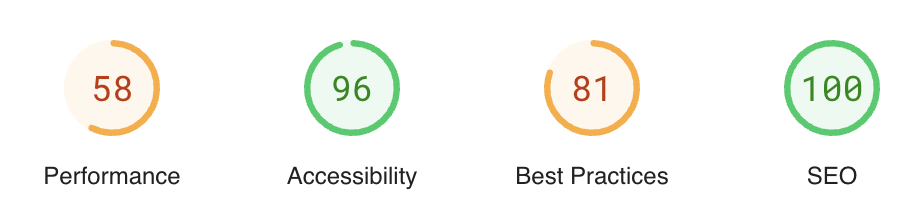
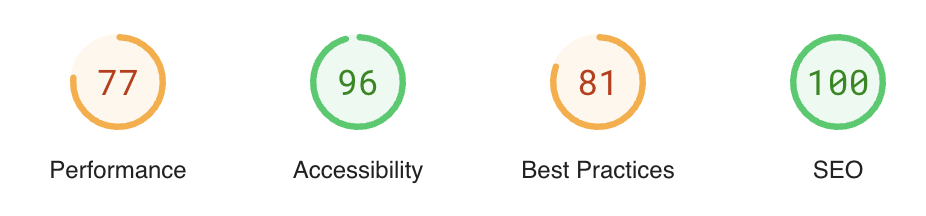
updated heavens-gate scores

diff --git a/src/routes/portfolio/+page.svelte b/src/routes/portfolio/+page.svelte
@@ -53,7 +53,7 @@
 				performance: heavensGateScores
 			},
 			insightsUrl:
-				'https://pagespeed.web.dev/analysis/https-heavens-gate-vercel-app/7mocz2l4pe?hl=en-US&form_factor=desktop'
+				'https://pagespeed.web.dev/analysis/https-heavens-gate-vercel-app/4s4t37it28?form_factor=desktop&category=performance&category=accessibility&category=best-practices&category=seo&hl=en-US&utm_source=lh-chrome-ext'
 		},
 		{
 			title: 'Pier 303 Seafood Market',
